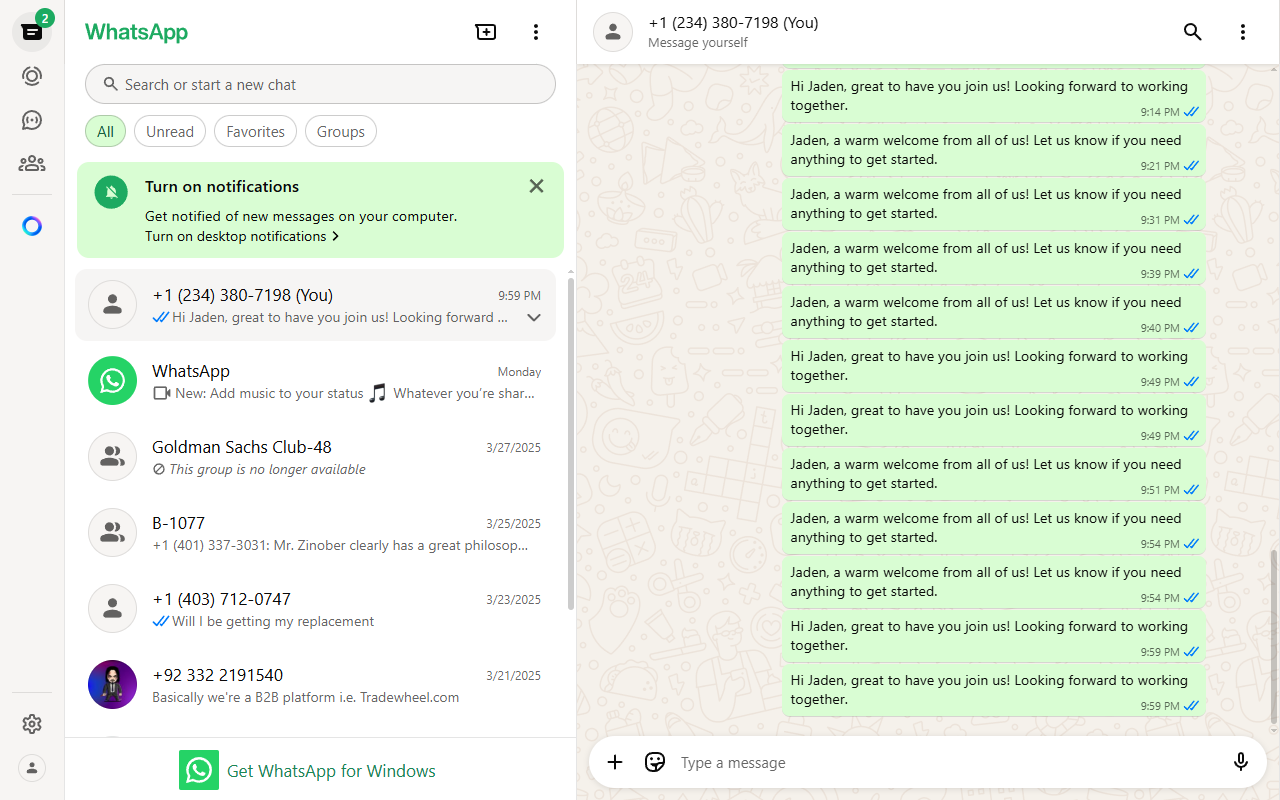
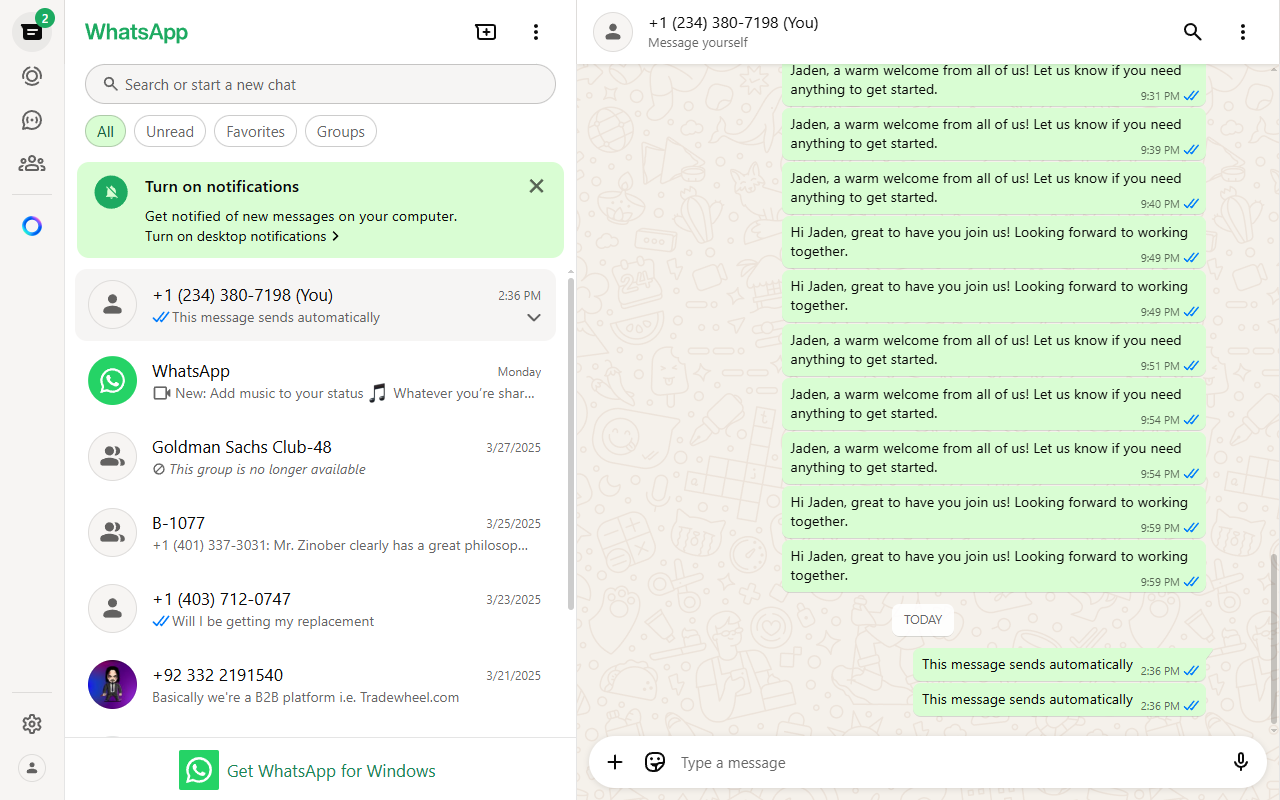
last working version

Changed region(s): [[0.5938, 0.0625, 0.9688, 0.9062], [0.125, 0.375, 0.375, 0.4062], [0.375, 0.3438, 0.4062, 0.375]]

diff --git a/whatsapp_sender.py b/whatsapp_sender.py
@@ -4,21 +4,6 @@ import urllib.parse
 from playwright.sync_api import sync_playwright
 from typing import List
 
-# Define Student class
-class Student:
-    def __init__(self, name: str, phone_number: str):
-        self.name = name
-        self.phone_number = phone_number
-
-    def __repr__(self):
-        return f"Student(name='{self.name}', phone_number='{self.phone_number}')"
-
-# Define default students globally
-DEFAULT_STUDENTS: List[Student] = [
-    Student(name="Jaden", phone_number="+12343807198"), # Default student
-    # Add other default students here if needed
-]
-
 class WhatsAppSender:
     def __init__(self, headless: bool = False):
         self.headless = headless
@@ -58,11 +43,11 @@ class WhatsAppSender:
     def login_to_whatsapp(self):
         """Handles QR scan and specifically clicks the Continue button in the popup"""
         try:
-            self.page.goto("https://web.whatsapp.com", timeout=180000)
+            self.page.goto("https://web.whatsapp.com", timeout=120000)
             print("Waiting for QR code scan...")
             
             # Wait for QR code to disappear (scan complete)
-            self.page.wait_for_selector('canvas', state='hidden', timeout=180000)
+            self.page.wait_for_selector('canvas', state='hidden', timeout=120000)
             print("QR scan detected")
             
             # SPECIFIC HANDLING FOR THE CONTINUE POPUP FROM YOUR SCREENSHOT
@@ -97,7 +82,7 @@ class WhatsAppSender:
             
             for indicator in login_indicators:
                 try:
-                    self.page.wait_for_selector(indicator, timeout=30000)
+                    self.page.wait_for_selector(indicator, timeout=15000)
                     login_verified = True
                     break
                 except Exception as e:
@@ -171,8 +156,8 @@ class WhatsAppSender:
             return False
 
 
-def send_whatsapp_messages(students: List[Student], message_template: str, min_delay=180, max_delay=300):
-    """Main automation function, sends personalized messages."""
+def send_whatsapp_messages(phone_numbers: List[str], message: str, min_delay=180, max_delay=300):
+    """Main automation function"""
     print("\nStarting WhatsApp Automation")
     print("="*50)
     
@@ -180,25 +165,22 @@ def send_whatsapp_messages(students: List[Student], message_template: str, min_d
         if not sender.login_to_whatsapp():
             return
         
-        for i, student in enumerate(students, 1):
-            print(f"\nProcessing {i}/{len(students)}: Student {student.name} ({student.phone_number})")
+        for i, number in enumerate(phone_numbers, 1):
+            print(f"\nProcessing {i}/{len(phone_numbers)}: {number}")
             
-            clean_num = student.phone_number 
+            # Clean and validate number
+            clean_num = ''.join(c for c in number if c == '+' or c.isdigit())
             if not clean_num.startswith('+') or len(clean_num) < 10:
-                print(f"✖ Invalid format for {student.name}: {clean_num}")
+                print(f"✖ Invalid format: {number}")
                 continue
             
-            # Personalize the message
-            personalized_message = message_template.format(name=student.name)
-            print(f"Sending to {student.name}: '{personalized_message}'")
-
             # Send with automatic retry
-            if not sender.send_message(clean_num, personalized_message):
-                print(f"⚠ Retrying failed message for {student.name}...")
-                sender.send_message(clean_num, personalized_message)  # One automatic retry
+            if not sender.send_message(clean_num, message):
+                print("⚠ Retrying failed message...")
+                sender.send_message(clean_num, message)  # One automatic retry
             
             # Delay between messages
-            if i < len(students):
+            if i < len(phone_numbers):
                 delay = random.randint(min_delay, max_delay)
                 print(f"\nWaiting {delay//60}m {delay%60}s before next...")
                 time.sleep(delay)
@@ -209,28 +191,12 @@ def send_whatsapp_messages(students: List[Student], message_template: str, min_d
 
 # Configuration
 if __name__ == "__main__":
-    # Import necessary components from tasks.py and random module
-    from tasks import get_message_templates
-    import random
-
-    students_to_message = DEFAULT_STUDENTS
-    
-    # Get message configurations from tasks.py
-    templates_config = get_message_templates()
-    first_admission_config = templates_config.get("first_admission")
-    
-    if first_admission_config and first_admission_config.get("message_options"):
-        # Randomly select a message template from the options in tasks.py
-        chosen_template = random.choice(first_admission_config["message_options"])
-        print(f"Using randomly selected template from tasks.py: '{chosen_template}'")
-    else:
-        # Fallback to a default template if tasks.py configuration is not as expected
-        print("Warning: Could not find message_options in tasks.py. Using a default template.")
-        chosen_template = "Hello {name}! This is a default message."
+    numbers = ["+12343807198"]  # Replace with your numbers
+    message = "This message sends automatically"  # Your message
     
     send_whatsapp_messages(
-        students=students_to_message,
-        message_template=chosen_template, 
-        min_delay=20,  # 3 min minimum delay
-        max_delay=40    # 5 min maximum delay
+        phone_numbers=numbers,
+        message=message,
+        min_delay=180,  # 3 min minimum delay
+        max_delay=300    # 5 min maximum delay
     )

diff --git a/tasks.py b/tasks.py
@@ -1,66 +1,64 @@
 from typing import List, Dict, Any
-from whatsapp_sender import send_whatsapp_messages, Student, DEFAULT_STUDENTS
+from whatsapp_sender import send_whatsapp_messages
 import time
 import random
+
+def get_phone_numbers() -> List[str]:
+    """Get the list of phone numbers to message"""
+    # REPLACE THESE WITH YOUR ACTUAL PHONE NUMBERS
+    # Format: +[country code][number], e.g., +1234567890
+    return [
+        "+12343807198",
+    ]
 
 def get_message_templates() -> Dict[str, Any]:
     """Get different message templates and configuration"""
     return {
         "first_admission": {
-            "message_options": [
-                "Hello {name}! Welcome to the team. We are excited to have you!",
-                "Hi {name}, great to have you join us! Looking forward to working together.",
-                "{name}, a warm welcome from all of us! Let us know if you need anything to get started."
-            ],
+            "message": "Hello! This is an automated first admission message.",  # EDIT THIS MESSAGE
             "min_delay": 180,  # 3 minutes (minimum delay between messages)
             "max_delay": 300   # 5 minutes (maximum delay between messages)
         }
-        # You can add other categories of messages here if needed
     }
 
-def validate_students(students: List[Student]) -> List[Student]:
-    """Validates student phone numbers and returns a list of students with valid numbers."""
-    valid_students = []
-    for student in students:
-        cleaned_num = ''.join([c for c in student.phone_number if c == '+' or c.isdigit()])
-        if cleaned_num.startswith('+') and len(cleaned_num) > 10:
-            # Optionally, update student.phone_number to cleaned_num if desired
-            # student.phone_number = cleaned_num 
-            valid_students.append(student)
+def validate_phone_numbers(numbers: List[str]) -> List[str]:
+    """Basic phone number validation"""
+    valid_numbers = []
+    for num in numbers:
+        cleaned = ''.join([c for c in num if c == '+' or c.isdigit()])
+        if cleaned.startswith('+') and len(cleaned) > 10:
+            valid_numbers.append(cleaned)
         else:
-            print(f"Invalid number format for student {student.name}: {student.phone_number}")
-    return valid_students
+            print(f"Invalid number format: {num}")
+    return valid_numbers
 
-def run_automation(students_to_process: List[Student]):
+def run_automation():
     """Main function to run the automation tasks"""
     print("=== WhatsApp Automation Started ===")
     
     # Get configuration
-    templates_config = get_message_templates()
-    message_config = templates_config["first_admission"]
+    templates = get_message_templates()
+    message_config = templates["first_admission"]
     
-    # Validate students
-    valid_students = validate_students(students_to_process)
+    # Get and validate phone numbers
+    phone_numbers = get_phone_numbers()
+    valid_numbers = validate_phone_numbers(phone_numbers)
     
-    if not valid_students:
-        print("Error: No valid students found for messaging.")
+    if not valid_numbers:
+        print("Error: No valid phone numbers found.")
         return
     
-    # Randomly select a message template from the options
-    chosen_message_template = random.choice(message_config["message_options"])
-
-    print(f"\nFound {len(valid_students)} valid students to message.")
-    for student in valid_students:
-        print(f"  - {student.name} ({student.phone_number})")
-    print(f"Message to send (chosen template): '{chosen_message_template}'")
+    print(f"\nFound {len(valid_numbers)} valid phone numbers to message.")
+    print(f"Message to send: '{message_config['message']}'")
     print(f"Delay between messages: {message_config['min_delay']//60}-{message_config['max_delay']//60} minutes\n")
     
+    # Confirm before sending
     input("Press Enter to start sending messages (make sure WhatsApp Web is logged out)...")
     
     try:
         send_whatsapp_messages(
-            students=valid_students,
-            message_template=chosen_message_template, # Pass the chosen template
+            phone_numbers=valid_numbers,
+            message=message_config["message"],
             min_delay=message_config["min_delay"],
             max_delay=message_config["max_delay"]
         )
@@ -70,5 +68,4 @@ def run_automation(students_to_process: List[Student]):
         print("\n=== Automation Completed ===")
 
 if __name__ == "__main__":
-    # DEFAULT_STUDENTS is now imported from whatsapp_sender
-    run_automation(DEFAULT_STUDENTS)
+    run_automation()
